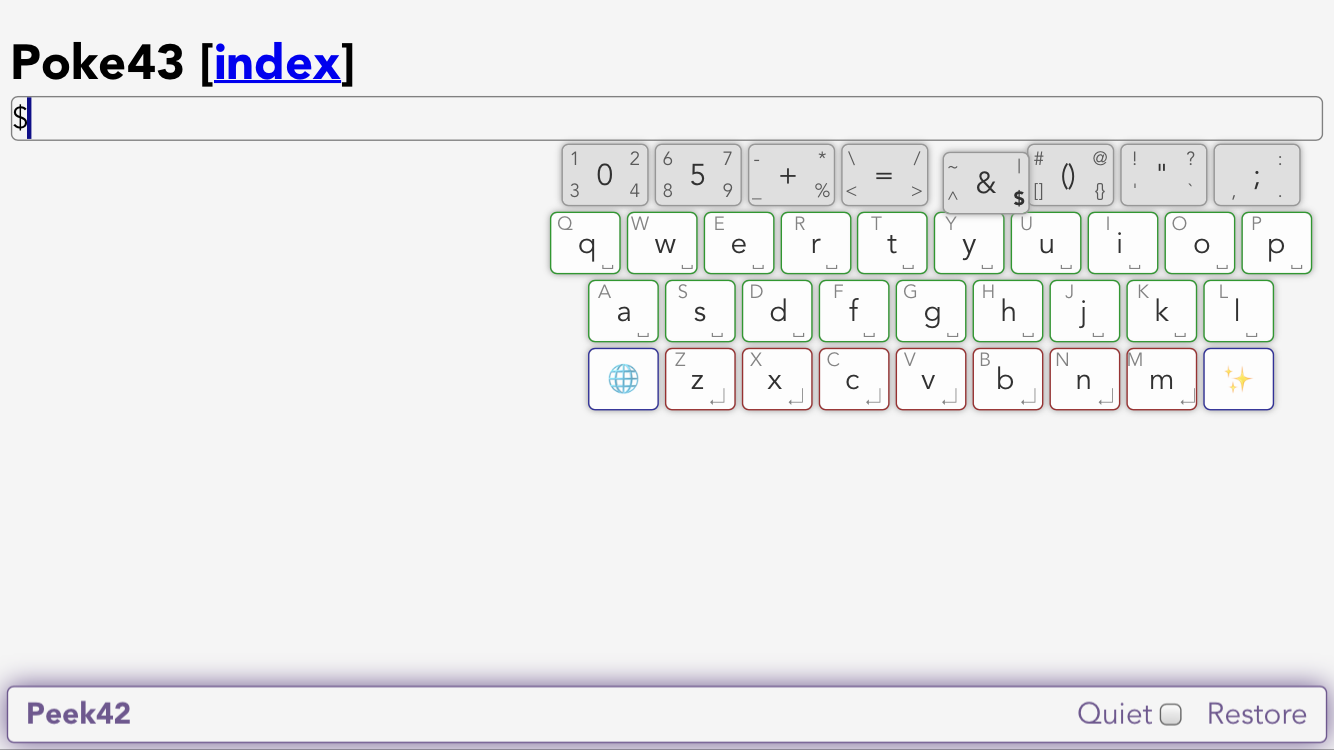
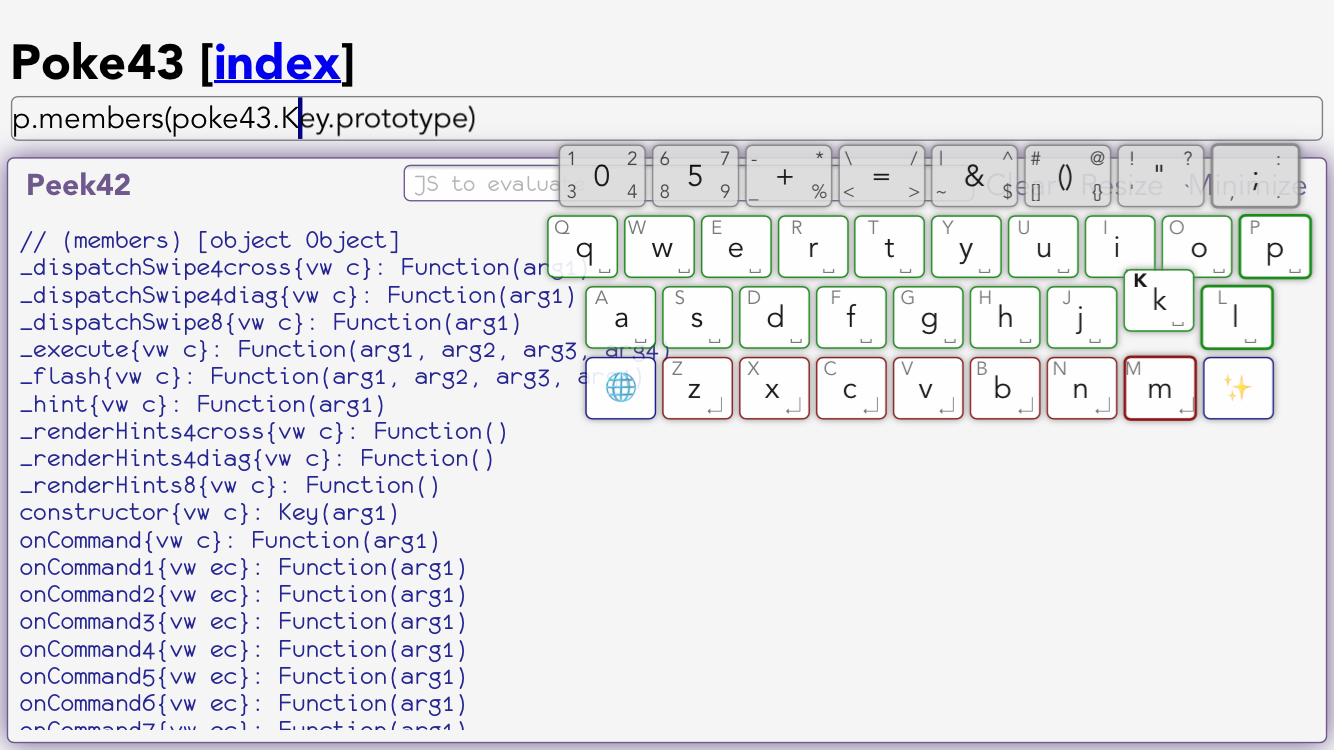
v1.6.0

Changed region(s): [[0.0, 0.1227, 1.0, 0.9813]]

diff --git a/poke43.html b/poke43.html
@@ -41,7 +41,11 @@ document.addEventListener('DOMContentLoaded', function () {
   <li>tap globe - switch languages</li>
   <li>swipe up globe - toggle symbol row</li>
   <li>swipe right globe - switch symbol row layouts</li>
-  <li>swipe right sparkles - expand emmet abbreviations</li>
+  <li>swipe up sparkles - hide keyboard (tap editor to show)</li>
+  <li>swipe right sparkles - expand emmet abbreviation</li>
+  <li>swipe down sparkles - execute editor content as JS</li>
+  <li>swipe left/right fatter border green/red - move/delete at word boundaries</li>
+  <li>swipe left/right ; - move to start/end</li>
 </ul>
   </body>
 </html>

diff --git a/RELNOTES.md b/RELNOTES.md
@@ -1,5 +1,14 @@
 # Release Notes
 
+## 1.6.0
+
+* Add the ability to execute JS
+* Add the ability to show/hide keyboard
+* Add the ability to move to start/end and move/delete at word boundaries (initially implemented using \w)
+* Ignore out of bounds move/delete attempts instead of throwing exceptions
+* Tweak keyboard z-index and opacity
+* Minor symbol key layout tweak
+
 ## 1.5.0
 
 * Add partial support for handling emmet tabstops (position caret to the first tabstop if present)
